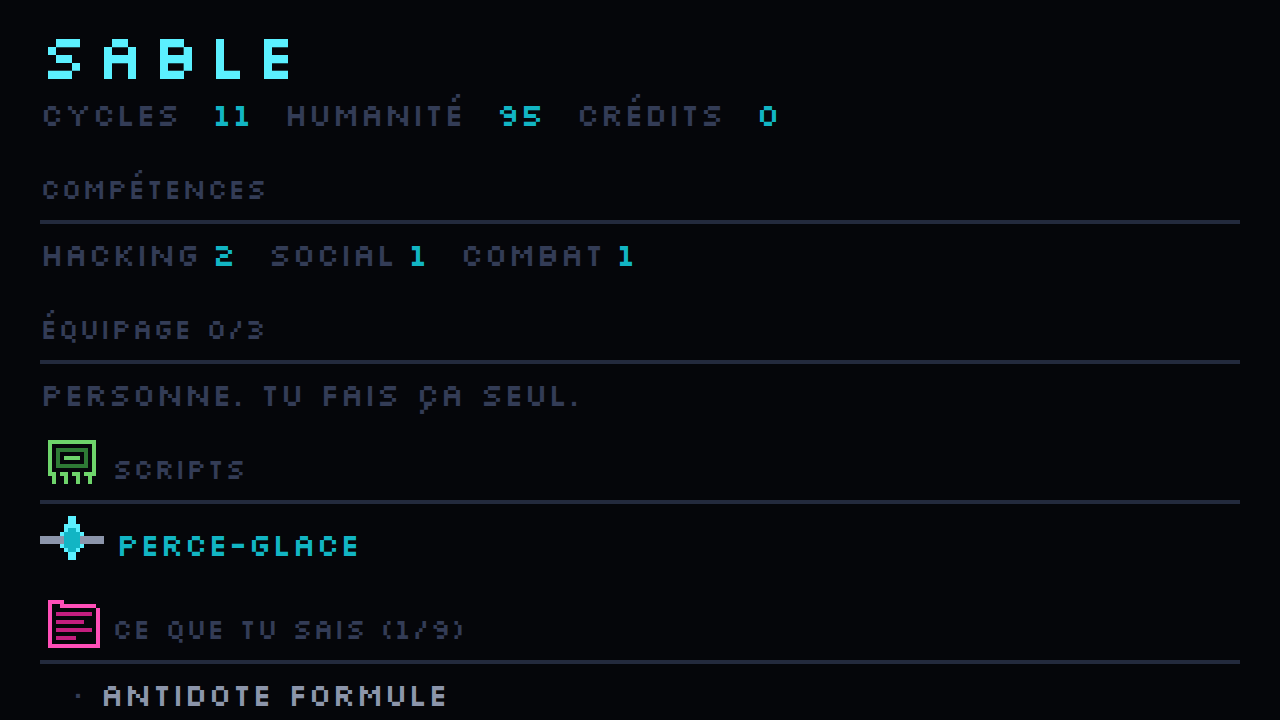
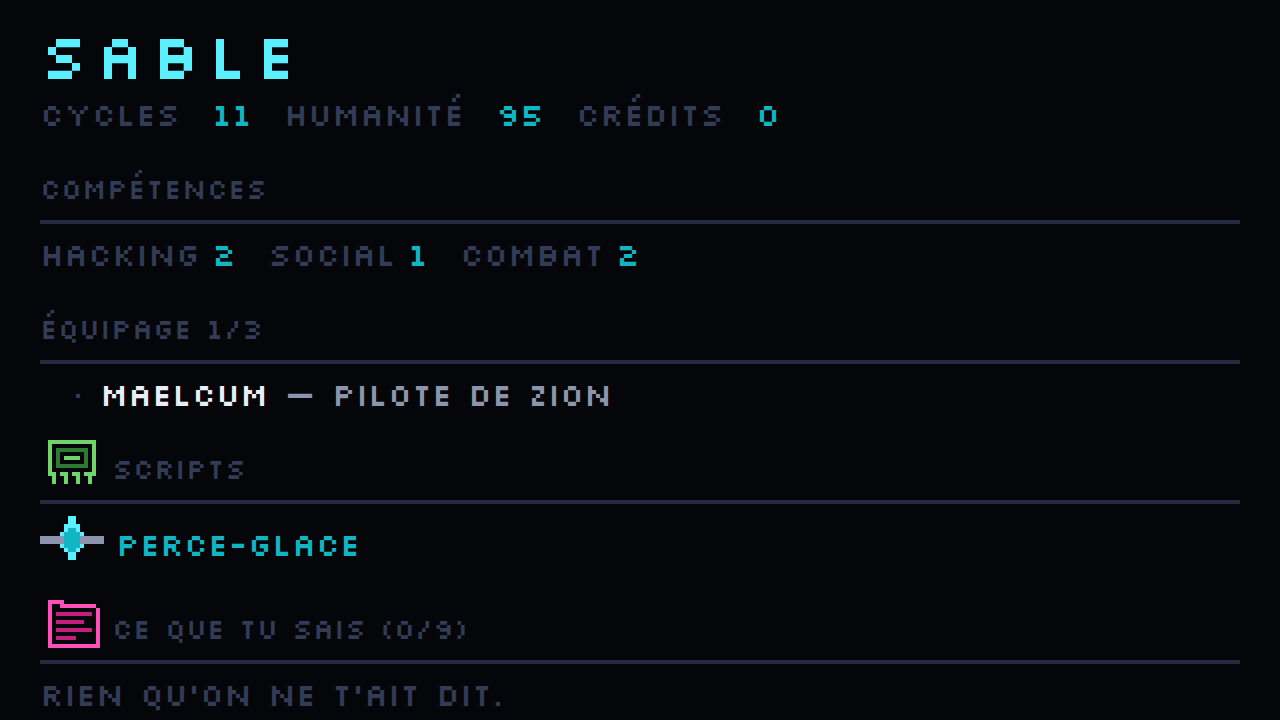
Le branchement et la glace noire — les deux ecrans qui manquaient
Le passage d'un cote a l'autre du cable se voit enfin : un voile de bandes
horizontales pince l'image vers sa ligne mediane a l'entree, l'ouvre en grand
a la sortie. Sans lui la rue devenait la matrice entre deux images, alors que
c'est le geste central du jeu.

Mourir dans la matrice ne se lisait que par une ligne de bilan, dans la meme
couleur qu'un butin rapporte. La riposte a desormais son carton : le reseau
disparait sous du rouge, le butin est perdu, et le recit reprend a
fin_flatline_reseau — une fin comme une autre, pas un game over.

Les deux sont en CSS et non en planche de douze images plein ecran : douze fois
57 600 pixels pour ce que deux degrades animes rendent mieux, et la seule
planche du jeu qui aurait du suivre l'echelle entiere sans etre
reechantillonnee. `pointer-events: none` sur le voile, sans quoi il avale le
premier clic pendant six dixiemes de seconde ; `prefers-reduced-motion` sur les
deux, le carton de mort etant precisement l'ecran ou l'on serait tente
d'ajouter un flash.

vitrine.mjs prend les deux captures et echoue si l'un des deux ne se produit
pas — la mort est atteinte en montant la trace au plafond entre deux relais,
une glace refusant le passage sans couter un tick.

Verifie : typecheck, 70 tests, build, validate:assets, validate:narrative
(500 parties, 0 plantage, 8/8 fins), et une partie entiere en navigateur
jusqu'a FLATLINE, sans erreur console.

Claude-Session: https://claude.ai/code/session_01NLnRsb5JomfCPoSu8MZofS

diff --git a/src/styles.css b/src/styles.css
@@ -1000,3 +1000,144 @@ body {
   line-height: calc(16 * var(--px));
   color: var(--c2);
 }
+
+/* --- Le branchement ------------------------------------------------------ */
+
+/* Le passage d'un cote a l'autre du cable. Un voile de bandes horizontales qui
+ * se referme puis s'ouvre : c'est l'image d'un signal qui se synchronise, et
+ * c'est ce que le jeu raconte a cet instant.
+ *
+ * En CSS et non en planche de 12 images : une transition plein ecran en 320x180
+ * couterait douze fois 57 600 pixels pour un effet que deux degrades animes
+ * rendent mieux, et qui suit l'echelle entiere sans etre re-echantillonne.
+ *
+ * `pointer-events: none` est indispensable : le voile couvre toute la vue
+ * pendant six dixiemes de seconde, et sans cela il avalerait le premier clic
+ * du joueur — et celui des outils de verification. */
+.jack {
+  position: absolute;
+  inset: 0;
+  z-index: 6;
+  pointer-events: none;
+  background:
+    repeating-linear-gradient(
+      to bottom,
+      var(--c0) 0,
+      var(--c0) var(--px),
+      transparent var(--px),
+      transparent calc(3 * var(--px))
+    ),
+    var(--n0);
+}
+.jack--entree {
+  animation: jack-entree 0.6s steps(12) forwards;
+}
+.jack--sortie {
+  animation: jack-sortie 0.6s steps(12) forwards;
+}
+
+/* L'ecran se pince vers la ligne mediane, puis s'ouvre en grand : on tombe
+ * dedans. Le trajet inverse pour ressortir. */
+@keyframes jack-entree {
+  0% {
+    opacity: 1;
+    clip-path: inset(0 0 0 0);
+  }
+  55% {
+    opacity: 1;
+    clip-path: inset(48% 0 48% 0);
+  }
+  100% {
+    opacity: 0;
+    clip-path: inset(50% 0 50% 0);
+  }
+}
+@keyframes jack-sortie {
+  0% {
+    opacity: 1;
+    clip-path: inset(50% 0 50% 0);
+  }
+  45% {
+    opacity: 1;
+    clip-path: inset(0 0 0 0);
+  }
+  100% {
+    opacity: 0;
+    clip-path: inset(0 0 0 0);
+  }
+}
+
+/* Meme regle que la pluie : ce qui bouge vite se coupe avec les scanlines. */
+@media (prefers-reduced-motion: reduce) {
+  .jack {
+    animation-duration: 0.01s;
+  }
+}
+
+/* --- La glace noire ------------------------------------------------------ */
+
+/* Mourir dans la matrice ne doit pas ressembler a un bilan de plongee reussie.
+ * Le carton couvre le reseau, en rouge, et ne propose qu'une chose : sortir.
+ *
+ * Pas de flash : le fond monte en une seconde, sans clignotement, et l'effet
+ * s'annule sous `prefers-reduced-motion`. Le risque photosensible est reel,
+ * et c'est precisement l'ecran ou l'on serait tente d'en faire trop. */
+.mort {
+  position: absolute;
+  inset: 0;
+  z-index: 5;
+  display: flex;
+  flex-direction: column;
+  align-items: center;
+  justify-content: center;
+  gap: calc(4 * var(--px));
+  background:
+    repeating-linear-gradient(
+      to bottom,
+      rgb(224 43 50 / 12%) 0,
+      rgb(224 43 50 / 12%) var(--px),
+      transparent var(--px),
+      transparent calc(3 * var(--px))
+    ),
+    radial-gradient(ellipse at center, var(--r0) 0%, var(--n0) 70%);
+  font-family: 'Silkscreen', monospace;
+  text-align: center;
+  animation: mort-montee 0.9s ease-out both;
+}
+.mort__etiquette {
+  margin: 0;
+  font-size: calc(8 * var(--px));
+  letter-spacing: calc(2 * var(--px));
+  color: var(--r1);
+}
+.mort__nom {
+  margin: 0;
+  font-size: calc(24 * var(--px));
+  line-height: calc(28 * var(--px));
+  letter-spacing: calc(3 * var(--px));
+  color: var(--r2);
+}
+.mort__sous {
+  margin: 0 0 calc(6 * var(--px));
+  font-size: calc(8 * var(--px));
+  color: var(--g1);
+}
+/* Le bouton de sortie est cale a droite dans la barre d'actions : centre ici,
+ * il doit oublier cette marge. */
+.mort .net__bouton--sortie {
+  margin-left: 0;
+}
+@keyframes mort-montee {
+  from {
+    opacity: 0;
+  }
+  to {
+    opacity: 1;
+  }
+}
+
+@media (prefers-reduced-motion: reduce) {
+  .mort {
+    animation: none;
+  }
+}

diff --git a/src/react/Cyberespace.tsx b/src/react/Cyberespace.tsx
@@ -90,6 +90,7 @@ export function Cyberespace({ pointAcces: idPointAcces, graine, onSortie }: Prop
   const voisin = cible !== null && ici ? ici.voisins.includes(cible) : false;
   const noeudCible = cible !== null ? etat.graphe.noeuds[cible] : undefined;
   const enCours = etat.statut === 'en_cours';
+  const mort = etat.statut === 'flatline';
 
   const scripts = useMemo(
     () => SCRIPTS.filter((s) => scriptsPossedes.includes(s.id)),
@@ -186,12 +187,10 @@ export function Cyberespace({ pointAcces: idPointAcces, graine, onSortie }: Prop
               DÉBRANCHER
             </button>
           </div>
-        ) : (
+        ) : mort ? null : (
           <div className="net__actions">
             <span className="net__bilan">
-              {etat.statut === 'flatline'
-                ? 'FLATLINE — butin perdu'
-                : `${etat.sac.length} objet(s) · ${cyclesConsommes} cycle(s)`}
+              {`${etat.sac.length} objet(s) · ${cyclesConsommes} cycle(s)`}
             </span>
             <button className="net__bouton net__bouton--sortie" onClick={encaisser}>
               SORTIR
@@ -200,6 +199,20 @@ export function Cyberespace({ pointAcces: idPointAcces, graine, onSortie }: Prop
         )}
       </div>
 
+      {/* La glace noire tue : elle merite autre chose qu'une ligne de bilan de
+        * la meme couleur qu'un butin ramene. Le carton couvre la matrice, donc
+        * le bilan du bas n'est pas rendu en meme temps — un seul bouton SORTIR,
+        * et pas de piege au clavier. */}
+      {mort && (
+        <div className="mort" role="alertdialog" aria-label="Flatline">
+          <p className="mort__etiquette">RIPOSTE</p>
+          <p className="mort__nom">GLACE NOIRE</p>
+          <p className="mort__sous">INTEGRITE 0 &middot; BUTIN PERDU</p>
+          <button className="net__bouton net__bouton--sortie" onClick={encaisser}>
+            SORTIR
+          </button>
+        </div>
+      )}
     </div>
   );
 }

diff --git a/src/react/App.tsx b/src/react/App.tsx
@@ -179,6 +179,25 @@ function Partie({
   const etat = useSyncExternalStore(moteur.souscrire, moteur.lire);
   const numero = useRef(plongee);
 
+  // Le passage d'un cote a l'autre du cable merite d'etre vu. Sans lui, la rue
+  // devient la matrice entre deux images et le joueur ne sait pas ce qui vient
+  // de se produire — c'est le geste central du jeu, il ne doit pas etre gratuit.
+  const dansLaMatrice = etat.plongee !== null;
+  const [branchement, setBranchement] = useState<'entree' | 'sortie' | null>(null);
+  const etaitDedans = useRef(dansLaMatrice);
+  useEffect(() => {
+    if (etaitDedans.current === dansLaMatrice) return;
+    setBranchement(dansLaMatrice ? 'entree' : 'sortie');
+    etaitDedans.current = dansLaMatrice;
+    const t = window.setTimeout(() => setBranchement(null), 620);
+    return () => window.clearTimeout(t);
+  }, [dansLaMatrice]);
+
+  const voile =
+    branchement !== null ? (
+      <div className={`jack jack--${branchement}`} aria-hidden="true" />
+    ) : null;
+
   const sortir = useCallback(
     (flatline: boolean) => {
       surPlongee((n) => n + 1);
@@ -190,11 +209,14 @@ function Partie({
   if (etat.plongee !== null) {
     numero.current = plongee;
     return (
-      <Cyberespace
-        pointAcces={etat.plongee}
-        graine={`plongee-${plongee}`}
-        onSortie={sortir}
-      />
+      <>
+        <Cyberespace
+          pointAcces={etat.plongee}
+          graine={`plongee-${plongee}`}
+          onSortie={sortir}
+        />
+        {voile}
+      </>
     );
   }
 
@@ -205,6 +227,7 @@ function Partie({
       {etat.fin !== null && !etat.peutContinuer && (
         <Fin id={etat.fin} onRejouer={onRejouer} />
       )}
+      {voile}
     </>
   );
 }

diff --git a/README.md b/README.md
@@ -136,6 +136,19 @@ décoratif. Voler un dossier médical débloque l'option de confronter quelqu'un
 
 ![Le cyberespace](docs/images/cyberespace.png)
 
+Le passage d'un côté à l'autre du câble se voit : un voile de bandes horizontales pince l'image
+vers sa ligne médiane à l'entrée, et l'ouvre en grand à la sortie. Sans lui, la rue devenait la
+matrice entre deux images.
+
+![Le branchement](docs/images/branchement.png)
+
+Mourir dans la matrice n'est pas un bilan de plongée d'une autre couleur. Quand la trace atteint
+son plafond, la glace noire riposte à chaque tick, et l'intégrité tombe : le réseau disparaît
+sous un carton rouge, le butin est perdu, et le récit reprend à `fin_flatline_reseau` — une fin
+comme une autre, pas un écran de game over.
+
+![La glace noire](docs/images/glace-noire.png)
+
 ### La progression n'est pas une statistique
 
 Une information découverte dans **n'importe quelle partie** débloque définitivement les options
@@ -265,6 +278,11 @@ avec `--px`, et les remplacer par du 9-slice ne gagnerait qu'un risque de régre
 d'interface qui existent — le logo, la fiole de toxine, les icônes — existent parce qu'aucun CSS
 ne les ferait.
 
+Le voile de branchement relève de la même décision : une planche de douze images en 320×180
+coûterait douze fois 57 600 pixels pour ce que deux dégradés animés rendent mieux, et une planche
+plein écran serait la seule image du jeu à devoir suivre l'échelle entière sans être
+rééchantillonnée. Il est donc en CSS, comme le carton de glace noire.
+
 ```bash
 tools/aseprite.sh tools/aseprite/ts_interior.lua
 ```
@@ -334,7 +352,7 @@ Tranche verticale en cours. Ce qui tourne aujourd'hui :
 - [x] Interface dessinée : logo-titre, fiole de toxine à treize états, icônes de butin
 - [x] Objets : planches des cinq scripts et des six plans d'implants
 - [x] La pluie de Ninsei — une tuile de 16 px, déplacée au pixel par le CSS
-- [ ] Transition de branchement (`fx_jack_in`) et écran de mort par glace noire
+- [x] Transition de branchement et carton de mort par glace noire
 - [x] Scènes de friction par paire d'équipiers — six paires écrites, une par partie
 
 ---

diff --git a/CLAUDE.md b/CLAUDE.md
@@ -502,6 +502,14 @@ remplacer par du 9-slice ne gagnerait qu'un risque de régression. Les assets d'
 existent (`ui.lua` : logo-titre, fiole de toxine, icônes de butin ; `items.lua` : scripts et
 plans ; `fx.lua` : la pluie) existent parce qu'aucun CSS ne les ferait.
 
+**Le voile de branchement (`.jack`) et le carton de glace noire (`.mort`) suivent la même
+règle.** Le plan prévoyait `fx_jack_in` en planche de douze images plein écran : douze fois
+57 600 pixels pour ce que deux dégradés animés rendent mieux, et la seule planche du jeu qui
+aurait dû suivre l'échelle entière sans être rééchantillonnée. Deux points à ne pas perdre :
+`pointer-events: none` sur `.jack`, sans quoi le voile avale le premier clic du joueur pendant
+six dixièmes de seconde — et celui des outils de vérification ; et `prefers-reduced-motion` sur
+les deux, le carton de mort étant précisément l'écran où l'on serait tenté d'ajouter un flash.
+
 **Une planche d'icônes est indexée par l'ordre de `data/*.json`.** `items_scripts` suit
 `hacking.scripts`, `items_plans` suit `hacking.plans`, `icons_butin` suit les quatre types de
 butin. Réordonner la donnée sans réordonner la planche affiche le mauvais dessin, sans la
